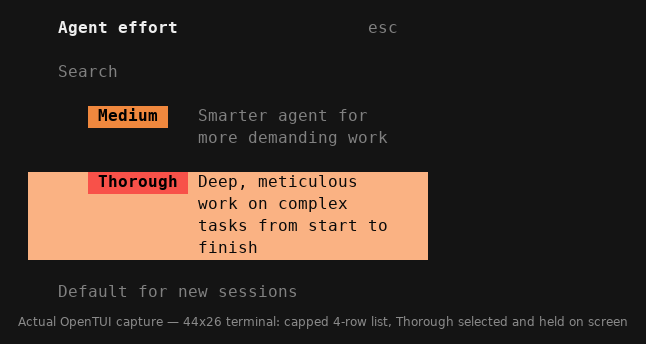
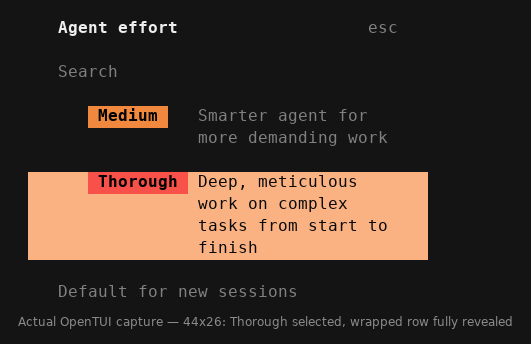
fix(tui): size the wrapping list to its content and pin a full-height row (Refs #791)
D3: a wrapped row has no line count to size the box from, so any estimate
made before layout clipped the last line until a later pass. The wrapping
layout now lets the scrollbox keep the content's own height with
maxHeight as a real cap (contentOptions minHeight 0), so the panel is
already content-tall on the first paint and the measurement machinery is
gone. Only pickers whose options set a titleColumn get that content
option; every other picker keeps its default sizing.

D2: centering a row as tall as the window pushed its last line out of
view forever (44x20). Such a row is now pinned to the top so all of its
lines stay on screen.

Tests: the geometry suite gains a first-paint assertion that the panel
does not resize after it appears, and a 44x20 test that the four wrapped
lines of the selected Thorough row are all visible; the plain-picker
control now asserts the untouched static height.

diff --git a/packages/tui/test/cli/tui/dialog-agent-effort.test.tsx b/packages/tui/test/cli/tui/dialog-agent-effort.test.tsx
@@ -404,13 +404,10 @@ function flatText(frame: string) {
     .join(" ")
     .replace(/\s+/g, " ")
 }
-
 /** The painted panel's rows: its background fill bounds what the dialog occupies. */
 async function panelGeometry(app: Setup, title: string) {
   const spans = await captureSpans(app)
-  const titleSpan = spans.lines
-    .flatMap((line) => line.spans)
-    .find((span) => span.text.trim() === title)
+  const titleSpan = spans.lines.flatMap((line) => line.spans).find((span) => span.text.trim() === title)
   if (!titleSpan) throw new Error(`no ${title} title span in the captured frame`)
   // The panel is whatever the title sits on; everything it paints, including
   // its padding, carries that same fill.
@@ -1310,6 +1307,82 @@ describe("agent effort selector", () => {
     }
   })
 
+
+  test("is already content-tall on the first paint", async () => {
+    // A wrapped row has no line count to size the box from, so an estimate made
+    // before layout clips the last line until a later pass. The panel must be
+    // complete on the frame the title first appears, pumped exactly like a
+    // slow runner would: three renders, no settling and no extra frames.
+    const harness = await mountEffort({
+      route: { type: "home" },
+      model: "test-provider/variant-model",
+      children: () => null,
+      width: 44,
+      height: 40,
+    })
+    try {
+      await frameWhere(harness.app, (f) => f.includes("Home") || true, "mount")
+      harness.dialog.replace(() => <DialogAgentEffort />)
+      await harness.app.renderOnce()
+      const pumpOne = await panelGeometry(harness.app, "Agent effort")
+      for (let pump = 0; pump < 2; pump++) await harness.app.renderOnce()
+      const first = await captureFrame(harness.app)
+      // Nothing resizes the panel after it first paints: an estimate that has
+      // to be corrected later is exactly the defect this guards.
+      expect(pumpOne.height).toBeGreaterThan(0)
+      expect(first).toContain("Agent effort")
+      expect(flatText(first)).toContain("Deep, meticulous work on complex tasks from start to finish")
+      expect(first).toContain("Default for new sessions")
+      // Same frame, no settling: the whole 10-row list is there and the panel
+      // is already its final height, so nothing was clipped on the way in.
+      expect(first.split("\n").filter((line) => line.trim()).length).toBe(11)
+      const panel = await panelGeometry(harness.app, "Agent effort")
+      expect(panel.height).toBe(10 + CHROME)
+      expect(pumpOne).toEqual(panel)
+    } finally {
+      await harness.dispose()
+    }
+  })
+
+  test("pins a row as tall as the window so its last line stays visible", async () => {
+    // 20 rows leave a 4-row window, exactly the height of the wrapped Thorough
+    // row. Centering that row would cut off its last line ("finish") forever;
+    // it is pinned to the top instead, so every line it paints is on screen.
+    const harness = await mountEffort({
+      route: { type: "home" },
+      model: "test-provider/variant-model",
+      children: () => null,
+      width: 44,
+      height: 20,
+    })
+    try {
+      harness.dialog.replace(() => <DialogAgentEffort />)
+      await frameWhere(harness.app, (f) => f.includes("Reliable workhorse"), "first row")
+      harness.app.mockInput.pressArrow("down")
+      harness.app.mockInput.pressArrow("down")
+      const frame = await frameWhere(
+        harness.app,
+        (f) => flatText(f).includes("Deep, meticulous work on complex tasks from start to finish"),
+        "wrapped row fully visible",
+      )
+      const lines = frame.split("\n")
+      const start = lines.findIndex((line) => line.includes("Thorough"))
+      const block = optionBlock(frame, "Thorough")
+      expect(block).toHaveLength(4)
+      // All four painted lines are inside the window, in order, and the footer
+      // still follows them.
+      expect(block[0]).toContain("Thorough  Deep, meticulous")
+      expect(block.slice(1).map((line) => line.trim())).toEqual(["work on complex", "tasks from start to", "finish"])
+      expect(lines.findIndex((line) => line.includes("Default for new sessions"))).toBeGreaterThan(start + 3)
+      const panel = await settledPanel(harness.app, "Agent effort")
+      expect(panel.height).toBe(4 + CHROME)
+      expect(start).toBeGreaterThanOrEqual(panel.top)
+      expect(start + 3).toBeLessThanOrEqual(panel.bottom)
+    } finally {
+      await harness.dispose()
+    }
+  })
+
   test("keeps keyboard selection on a wrapped row visible in a short viewport", async () => {
     const harness = await mountEffort({
       route: { type: "home" },
@@ -1424,7 +1497,7 @@ describe("agent effort selector", () => {
   // writes the sanitized span dumps that the committed PNGs are rendered from.
   // It renders through the production dialog stack, like app.tsx does, so the
   // frames carry the real panel width.
-  test.skipIf(!process.env.TUI_CAPTURE_DIR)("captures the normal, narrow and short layout frames", async () => {
+  test.skipIf(!process.env.TUI_CAPTURE_DIR)("captures the normal, narrow, short and capped layout frames", async () => {
     const dir = process.env.TUI_CAPTURE_DIR
     if (!dir) return
     for (const view of [
@@ -1433,6 +1506,7 @@ describe("agent effort selector", () => {
       // A short viewport caps the list; the cursor walks to the wrapping level
       // so the frame also shows the wrapped selection held on screen.
       { name: "short", width: 44, height: 26, downs: 2 },
+      { name: "capped", width: 44, height: 20, downs: 2 },
     ]) {
       const harness = await mountEffort({
         route: { type: "home" },
@@ -1471,6 +1545,7 @@ describe("agent effort selector", () => {
       }
     }
   })
+
 
 
 })

diff --git a/packages/tui/src/ui/dialog-select.tsx b/packages/tui/src/ui/dialog-select.tsx
@@ -230,17 +230,16 @@ export function DialogSelect<T>(props: DialogSelectProps<T>) {
 
   const dimensions = useTerminalDimensions()
   // A title column turns descriptions into wrapping text, so how many lines a
-  // row paints is only known after layout. The scrollbox paints exactly the
-  // height it is allowed, so this measures the rows it actually laid out
-  // instead of assuming one line per option: a static count would either clip
-  // wrapped lines or leave the panel with empty rows under the last option.
-  const [laidOutRows, setLaidOutRows] = createSignal(0)
+  // row paints is only known after layout and a one-line-per-option count
+  // cannot size the box. Those rows size the scrollbox to its content instead
+  // (see the contentOptions below), and this only keeps the terminal's cap:
+  // a static estimate here left wrapped lines clipped on the first paint.
   const wrapping = createMemo(() => flat().some((option) => option.titleColumn !== undefined))
   const height = createMemo(() => {
     const cap = Math.floor(dimensions().height / 2) - 6
     // Every other picker keeps this expression exactly as it was.
     if (!wrapping()) return Math.min(rows(), cap)
-    return Math.max(1, Math.min(laidOutRows() || rows(), Math.max(0, cap)))
+    return Math.max(0, cap)
   })
 
   const selected = createMemo(() => flat()[store.selected])
@@ -375,7 +374,14 @@ export function DialogSelect<T>(props: DialogSelectProps<T>) {
     const rowHeight = Math.max(1, target.height)
     if (center) {
       const centerOffset = Math.floor(scroll.height / 2)
-      scroll.scrollBy(y + Math.floor((rowHeight - 1) / 2) - centerOffset)
+      // A row as tall as the window cannot be centered: any centering offset
+      // pushes its first or last line out of the viewport, so it is pinned to
+      // the top and every line it paints stays on screen.
+      if (rowHeight >= scroll.height) {
+        scroll.scrollBy(y)
+      } else {
+        scroll.scrollBy(y + Math.floor((rowHeight - 1) / 2) - centerOffset)
+      }
     } else {
       if (y + rowHeight > scroll.height) {
         scroll.scrollBy(y + rowHeight - scroll.height)
@@ -531,41 +537,6 @@ export function DialogSelect<T>(props: DialogSelectProps<T>) {
   })
 
   let scroll: ScrollBoxRenderable | undefined
-  // The painted rows are the only honest source for a wrapped row's height, so
-  // the scrollbox is sized from the extent they actually laid out to. Rows only
-  // report a height once they have one, and a layout can settle over more than
-  // one pass, so this re-reads until consecutive passes agree and then stops.
-  let measureGeneration = 0
-  function measureLaidOutRows() {
-    // Only the opt-in wrapping layout sizes itself from a measurement: every
-    // other picker keeps the static row math, so it schedules nothing at all.
-    if (!wrapping()) return
-    const generation = ++measureGeneration
-    let previous = -1
-    const settle = () => {
-      if (generation !== measureGeneration) return
-      const children = scroll?.getChildren()
-      if (children && children.length > 0) {
-        const last = children[children.length - 1]
-        const measured = last.y + last.height - children[0].y
-        if (measured > 0) setLaidOutRows(measured)
-      }
-      if (laidOutRows() === previous) return
-      previous = laidOutRows()
-      renderer.requestAnimationFrame(settle)
-    }
-    renderer.requestAnimationFrame(settle)
-  }
-  createEffect(() => {
-    if (!wrapping()) return
-    grouped()
-    dimensions()
-    selected()
-    measureLaidOutRows()
-  })
-  onCleanup(() => {
-    measureGeneration++
-  })
   const ref: DialogSelectRef<T> = {
     get filter() {
       return store.filter
@@ -697,12 +668,14 @@ export function DialogSelect<T>(props: DialogSelectProps<T>) {
             paddingRight={1}
             scrollbarOptions={{ visible: false }}
             scrollAcceleration={scrollAcceleration()}
-            ref={(r: ScrollBoxRenderable) => {
-              scroll = r
-              // The first measurement can run before the list is attached.
-              measureLaidOutRows()
-            }}
+            ref={(r: ScrollBoxRenderable) => (scroll = r)}
             maxHeight={height()}
+            // A wrapping row has no line count to size from, so the content
+            // keeps its own height and `maxHeight` stays a real cap: the box
+            // is compact on the very first paint and only scrolls when the
+            // list genuinely does not fit. Other pickers keep the default
+            // content sizing they always had.
+            {...(wrapping() ? { contentOptions: { minHeight: 0 } } : {})}
           >
             <For each={grouped()}>
               {([category, options], index) => (
